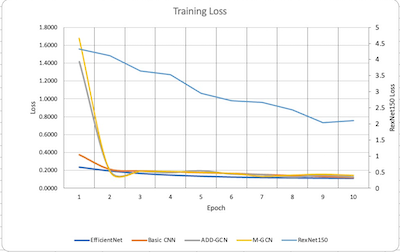
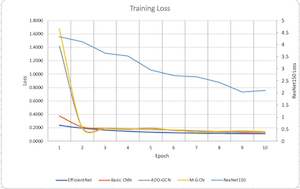
adjust img size

diff --git a/README.md b/README.md
@@ -42,11 +42,11 @@ The project consists of the following main steps:
 **![Alt Text](./images/VL.png)**
 
 - Label Prediction on test images
-**![Alt Text](./images/TestImgs)**
+**![Alt Text](./images/TestImgs.png)**
 
 - Nutrional Information via LLM
-**![Alt Text](./images/LLM3)**
-**![Alt Text](./images/LLM5)**
+**![Alt Text](./images/LLM3.png)**
+**![Alt Text](./images/LLM5.png)**
 
 
 ## Limitation and Future Work
